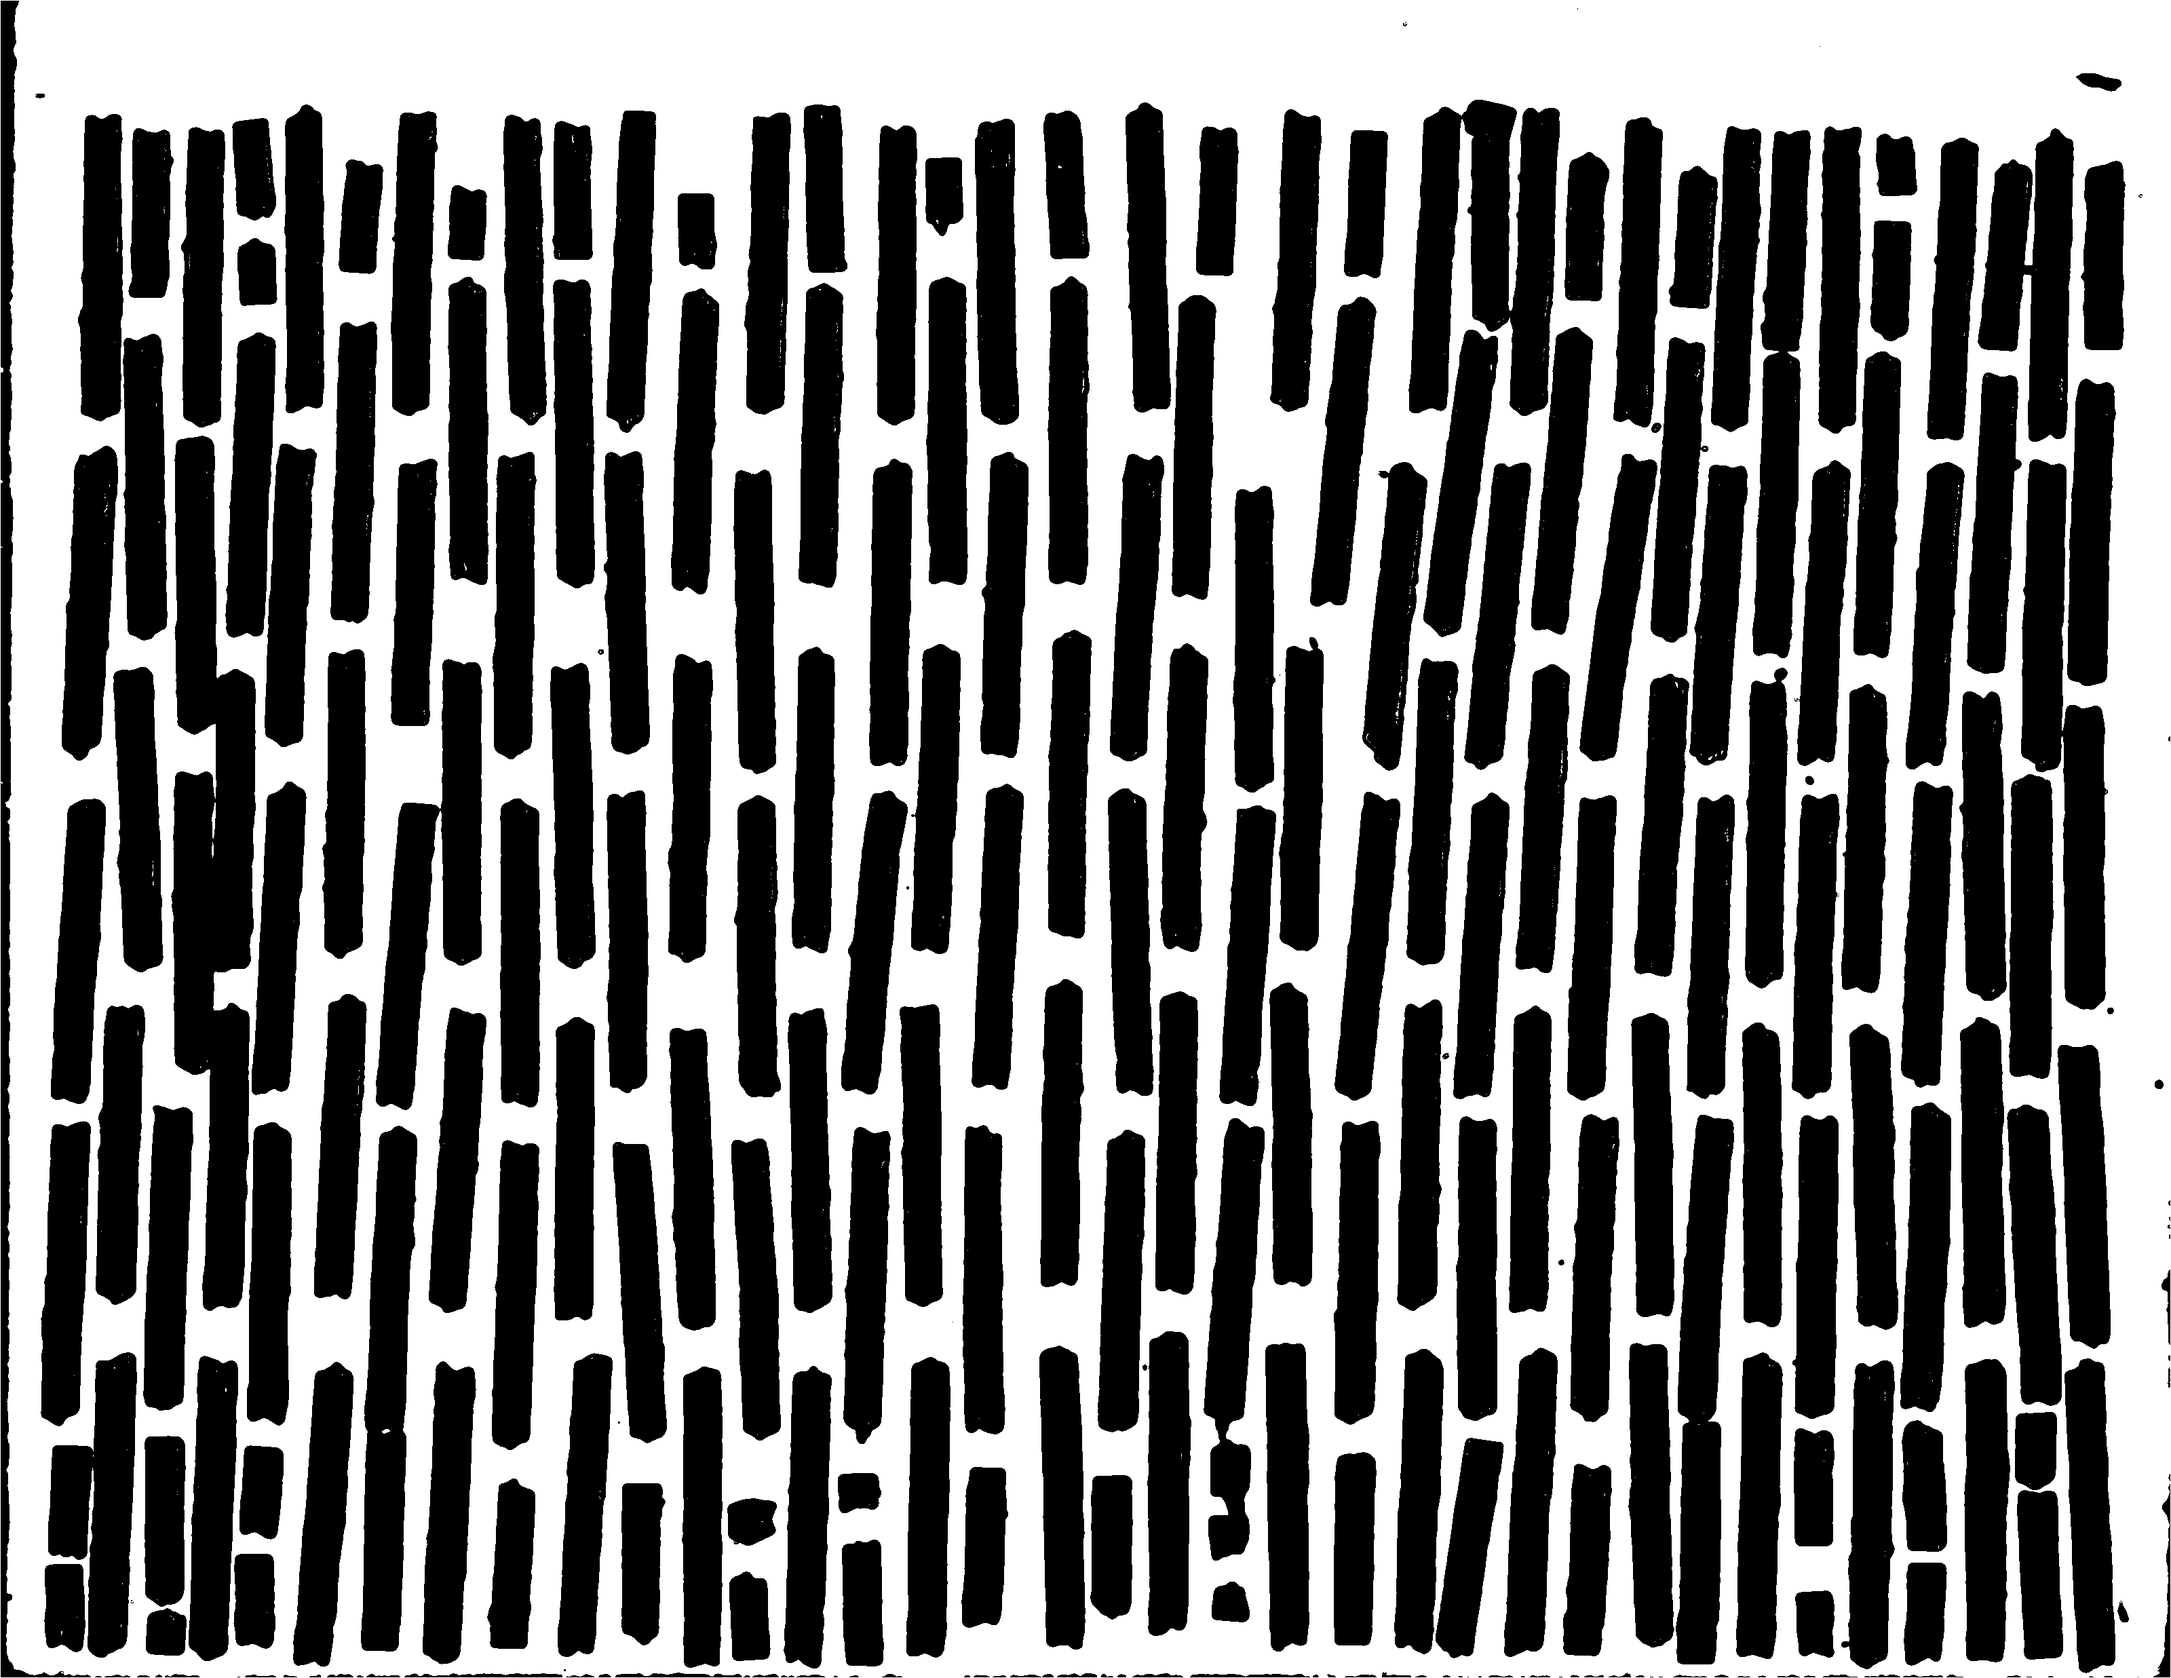
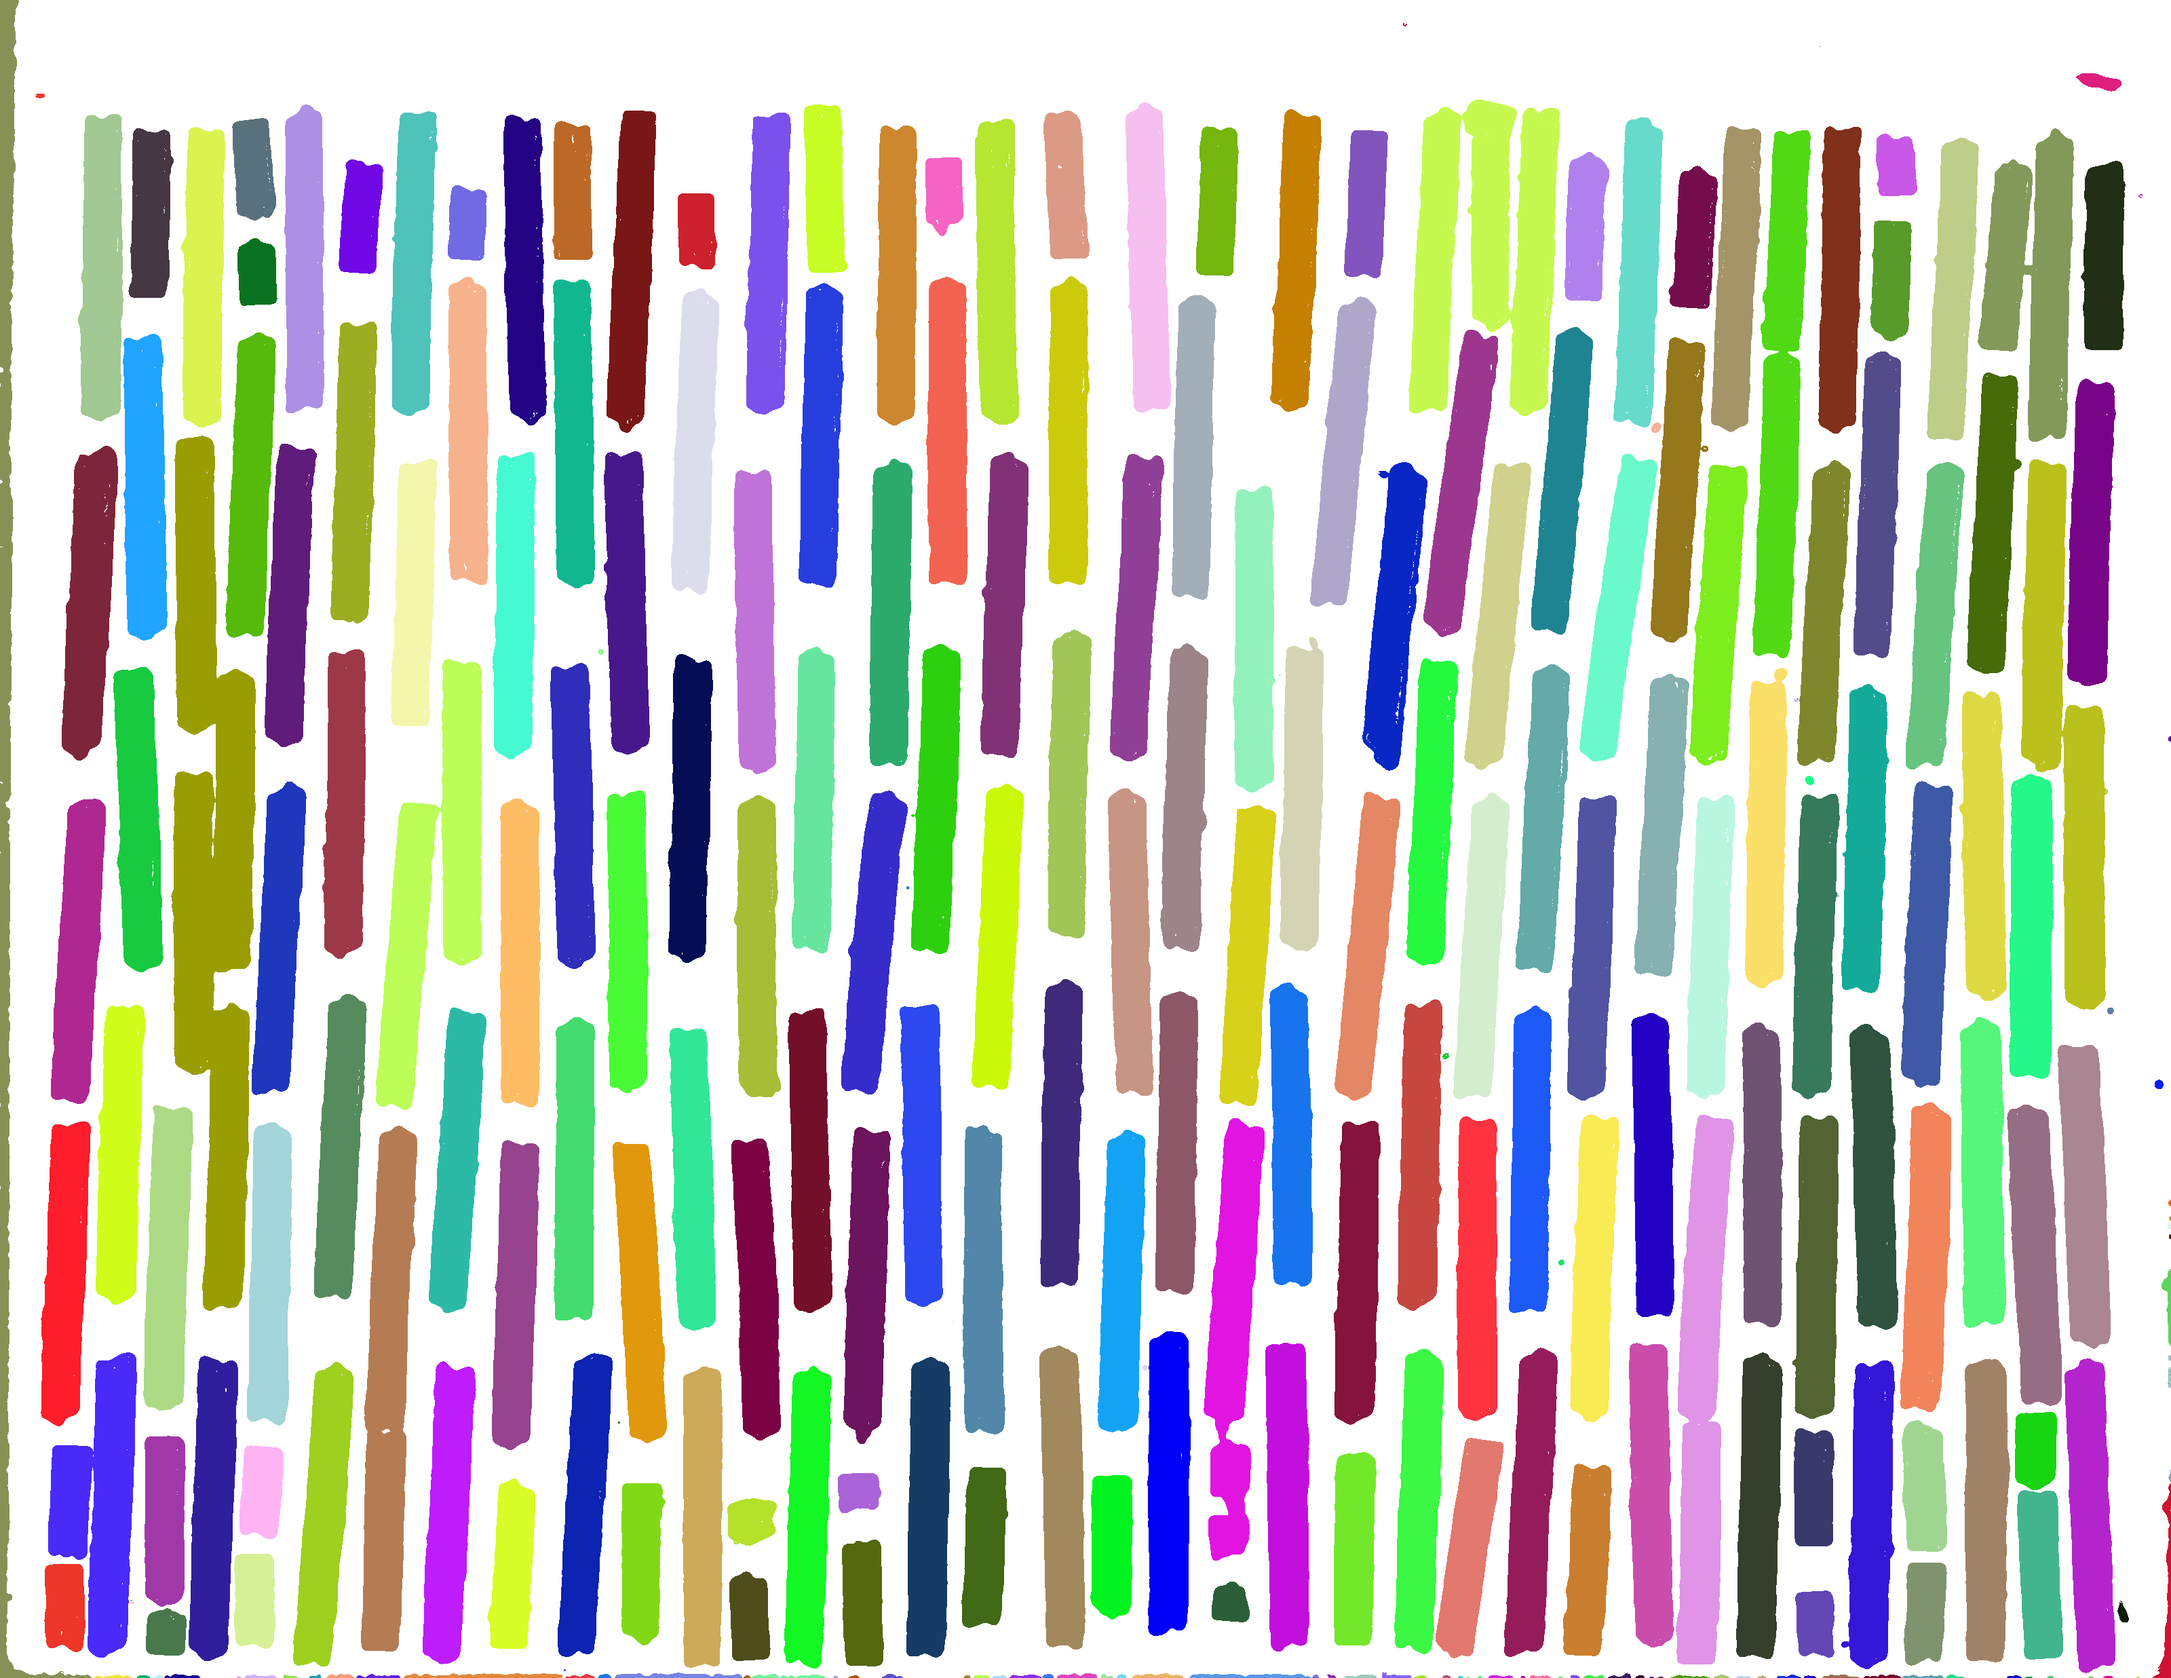
Fixed blob detection, added coloring

diff --git a/src/BlobDetector.java b/src/BlobDetector.java
@@ -1,12 +1,14 @@
+import java.awt.Color;
 import java.awt.image.BufferedImage;
 import java.io.File;
 import java.io.IOException;
+import java.util.Stack;
 import javax.imageio.ImageIO;
 
 public class BlobDetector {
     private BufferedImage baseImage;
     private int[][] blobs;
-    public static final int BLOB_THRESHOLD = 50;
+    public static final int BLOB_THRESHOLD = 0;
 
     public BlobDetector(BufferedImage bi) {
         baseImage = bi;
@@ -17,36 +19,63 @@ public class BlobDetector {
         int blobNum = 0;
         // The = 1, < size -1
         // Are for not having to do inbounds checks for each neighbor
-        for (int x = 1; x < baseImage.getWidth() - 1; x++) {
-            for (int y = 1; y < baseImage.getHeight() - 1; y++) {
+        Stack<Pixel> pixelStack = new Stack<Pixel>();
+        for (int x = 0; x < baseImage.getWidth() - 1; x++) {
+            for (int y = 0; y < baseImage.getHeight() - 1; y++) {
                 if (blobs[x][y] != 0) {
                     continue;
                 }
                 if (getAlphaValue(baseImage.getRGB(x, y)) <= BLOB_THRESHOLD) {
                     continue;
                 }
-                // Check neighbors
-                // If neighbor is not transparent, set to highest neighbor number
-                // If neighbors == transparent, set own blob color
-                int highestNeighbor = 0;
-                for (int i = x - 1; i < x + 1; i++) {
-                    for (int j = y - 1; j < y + 1; j++) {
-                        if (blobs[i][j] > highestNeighbor) {
-                            highestNeighbor = blobs[i][j];
+                /*
+                 * For every pixel not part of a blob Add the pixel to a stack While the stack isn't empty, pop off the pixel, mark it as a blob, add its non-transparent neighbors
+                 */
+                pixelStack.push(new Pixel(x, y));
+
+                blobNum++;
+                while (!pixelStack.empty()) {
+                    Pixel currentPixel = pixelStack.pop();
+                    // System.out.printf("Popped: %d %d\n", currentPixel.x, currentPixel.y);
+                    blobs[currentPixel.x][currentPixel.y] = blobNum;
+                    // System.out.println(getAlphaValue(baseImage.getRGB(currentPixel.x, currentPixel.y)));
+                    for (int i = currentPixel.x - 1; i <= currentPixel.x + 1; i++) {
+                        for (int j = currentPixel.y - 1; j <= currentPixel.y + 1; j++) {
+                            // System.out.printf("dsa: %d %d\n", i, j);
+                            if (i < 0 || j < 0 || i >= baseImage.getWidth() || j >= baseImage.getHeight()) {
+                                continue;
+                            }
+                            // System.out.println("dsaf");
+                            if (blobs[i][j] != 0) {
+                                // System.out.println((i == currentPixel.x) + " " + (j == currentPixel.y) + " " + getAlphaValue(baseImage.getRGB(i, j)));
+                                continue;
+                            }
+
+                            if (getAlphaValue(baseImage.getRGB(i, j)) <= BLOB_THRESHOLD) {
+                                continue;
+                            }
+
+                            // System.out.printf("Pushing: %d %d\n", i, j);
+                            pixelStack.push(new Pixel(i, j));
                         }
                     }
+                    // System.exit(1);
                 }
-                if (highestNeighbor > 0) {
-                    blobs[x][y] = highestNeighbor;
-                } else {
-                    blobNum++;
-                    blobs[x][y] = blobNum;
-                }
+
+                /*
+                 * Iterative Method, creates too many blobs // Check neighbors // If neighbor is not transparent, set to highest neighbor number // If neighbors == transparent, set own blob color int highestNeighbor = 0; for (int i = x - 1; i < x + 1; i++) { for (int j = y - 1; j < y + 1; j++) { if (blobs[i][j] > highestNeighbor) { highestNeighbor = blobs[i][j]; } } } if (highestNeighbor > 0) { blobs[x][y] = highestNeighbor; } else { blobNum++; blobs[x][y] = blobNum; }
+                 */
 
                 /*
                  * //Recursive (stack overflow) if (blobs[x][y] != 0) continue; if (getAlphaValue(baseImage.getRGB(x, y)) <= BLOB_THRESHOLD) continue; System.out.println(x + " " + y); fillBlob(x, y, blobNum); blobNum++;
                  */
             }
+        }
+        System.out.println((blobNum) + " blobs found");
+        int[] blobColors = new int[blobNum + 1];
+        for (int i = 0; i < blobColors.length; i++) {
+            Color randomColor = new Color((int) (Math.random() * 255), (int) (Math.random() * 255), (int) (Math.random() * 255));
+            blobColors[i] = randomColor.getRGB();
         }
         System.out.println("Creating outImage");
         BufferedImage outImage = new BufferedImage(baseImage.getWidth(), baseImage.getHeight(), BufferedImage.TYPE_INT_RGB);
@@ -55,8 +84,11 @@ public class BlobDetector {
                 if (blobs[x][y] == 0) {
                     outImage.setRGB(x, y, 0xFFFFFFFF);
                 } else {
-                    outImage.setRGB(x, y, 0);
+                    outImage.setRGB(x, y, blobColors[blobs[x][y]]);
                 }
+                /*
+                 * if (blobs[x][y] == 1) { System.out.printf("x: %d, y: %d\n", x, y); }
+                 */
             }
         }
         System.out.println("Saving");
@@ -66,6 +98,7 @@ public class BlobDetector {
             // TODO Auto-generated catch block
             e.printStackTrace();
         }
+        System.out.println("done saving");
     }
 
     private void fillBlob(int x, int y, int num) {

diff --git a/src/Pixel.java b/src/Pixel.java
@@ -1,0 +1,9 @@
+public class Pixel {
+    public int x;
+    public int y;
+
+    public Pixel(int x, int y) {
+        this.x = x;
+        this.y = y;
+    }
+}
